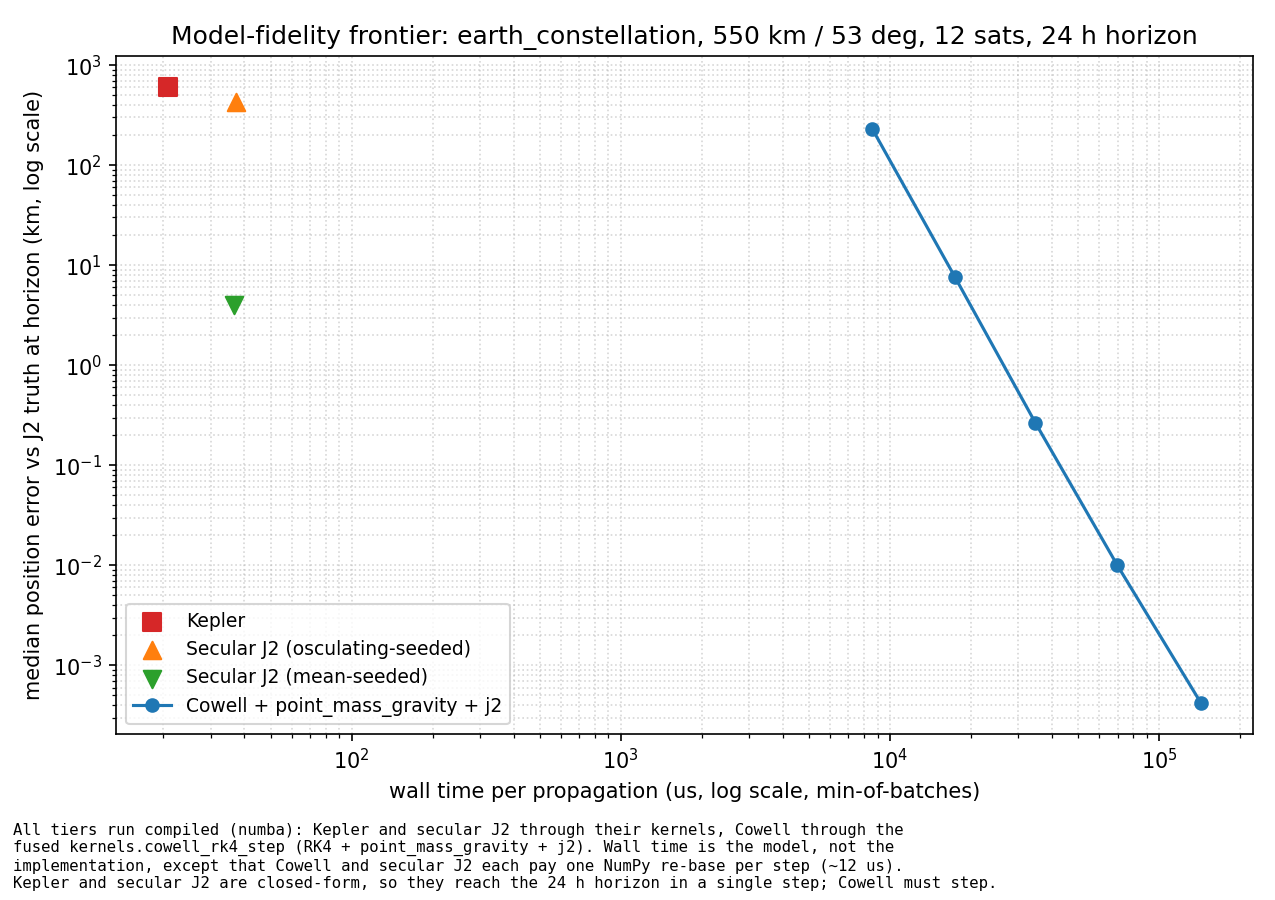
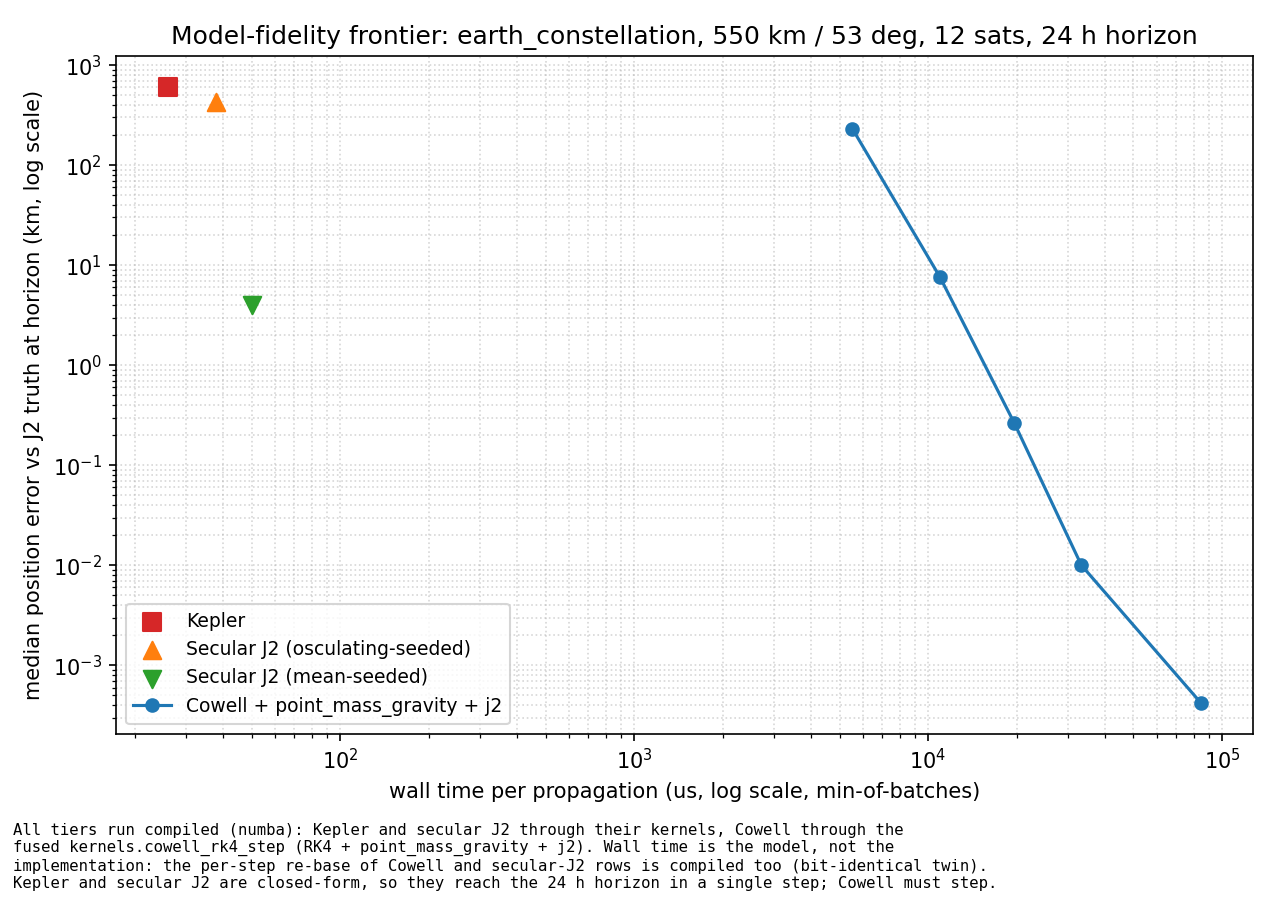
Compiled re-base: frontier plot, README numbers, twin table and notes
Regenerate docs/figures/frontier.png with the re-base compiled. Errors
unchanged; Cowell now 5.5 ms at a 160 s step and 85 ms at 10 s. Measured
per step on the 12-satellite scenario: Cowell 16.9 -> 5.8 us, secular J2
24.2 -> 6.9 us, against 5-6 us for Kepler. Doc edits limited to the
sentences that quoted the ~12 us re-base and the two-implementation table.

diff --git a/benchmarks/frontier_plot.py b/benchmarks/frontier_plot.py
@@ -32,9 +32,13 @@ through their kernels, Cowell through `kernels.cowell_rk4_step`, which fuses RK4
 NumPy `RK4Integrator` path, and `Simulation._cowell_fused_ok` says which applied). Without numba,
 Kepler and secular J2 run as interpreted Python and Cowell as vectorised NumPy, so the horizontal axis
 then measures implementation as much as model - printed here, on the figure itself and in
-`README.md`. What remains is `step()`'s Python-level bookkeeping: the Cowell and secular-J2 tiers each
-pay one NumPy re-base per step (eight small fancy-indexed operations), about 12 us, which the Keplerian
-tier does not.
+`README.md`. The re-base each Cowell and secular-J2 body needs after `calc_global()` also runs compiled
+(`kernels.rebase_relative_states`, bit-identical to the NumPy block in `Simulation._rebase`); before
+it did, that block cost 11 us per Cowell step and 17 us per secular-J2 step (12 satellites, measured
+with `benchmark.measure`) and dominated both tiers: a step now costs ~6 us against ~5-6 us for
+Kepler. What remains
+is the ordinary Python of `step()`, paid by every tier alike; `README.md` carries the measured
+per-tier timings.
 
 **The analytic tiers take one step to the horizon (`KEPLER_DT_S = HORIZON_S`).** Kepler and secular J2
 are closed-form in time, so their horizon error does not depend on step size: 60 s steps and a single
@@ -84,7 +88,7 @@ TIMING_WARMUP = 1
 CAVEAT_COMPILED = (
     "All tiers run compiled (numba): Kepler and secular J2 through their kernels, Cowell through the\n"
     "fused kernels.cowell_rk4_step (RK4 + point_mass_gravity + j2). Wall time is the model, not the\n"
-    "implementation, except that Cowell and secular J2 each pay one NumPy re-base per step (~12 us).\n"
+    "implementation: the per-step re-base of Cowell and secular-J2 rows is compiled too (bit-identical twin).\n"
     "Kepler and secular J2 are closed-form, so they reach the 24 h horizon in a single step; Cowell must step."
 )
 CAVEAT_INTERPRETED = (

diff --git a/README.md b/README.md
@@ -25,20 +25,21 @@ common DOP853 + J2 reference, computed once and reused. `benchmarks/frontier_plo
 
 Median position error after 24 hours, and the wall time to reach that state:
 
-- **Kepler: 608 km in 21 µs.** No J2 at all.
-- **Kepler + secular J2, seeded from osculating elements: 431 km in 37 µs.** The secular drift removes
+- **Kepler: 608 km in 26 µs.** No J2 at all.
+- **Kepler + secular J2, seeded from osculating elements: 431 km in about 40 µs.** The secular drift removes
   the cross-track error. The along-track error remains, because mean motion is taken from the
   *osculating* semi-major axis, whose short-period J2 term acts as a fixed rate bias.
-- **The same propagator seeded with a first-order *mean* semi-major axis: 4.0 km in 37 µs**
+- **The same propagator seeded with a first-order *mean* semi-major axis: 4.0 km in about 40 µs**
   (`propagators.mean_seeded_p`, after Kozai 1959 / Brouwer 1959). The remaining few km are the
   short-period oscillation an averaged theory cannot represent.
-- **Cowell + `point_mass_gravity` + `j2`: 231 km at a 160 s step (8.6 ms) down to 0.0004 km at 10 s
-  (143 ms).** Wall time rises 16× across that range, as fourth-order Runge-Kutta predicts: each halving
-  of the step doubles the cost and cuts the error about 16-fold.
+- **Cowell + `point_mass_gravity` + `j2`: 231 km at a 160 s step (5.5 ms) down to 0.0004 km at 10 s
+  (85 ms).** Wall time rises about 16× across that range, as fourth-order Runge-Kutta predicts: each
+  halving of the step doubles the cost and cuts the error about 16-fold.
 
 So the mean-seeded analytic tier sits on the frontier down to a few km. Doing better needs numerical
-integration, at roughly 1,000–4,000× the cost: 0.27 km for 35 ms, 0.0004 km for 143 ms. Timings vary
-by about 15% from run to run; errors do not.
+integration, at roughly 200–3,000× the cost: 0.27 km for 20 ms, 0.0004 km for 85 ms. Timings vary
+by about 20% from run to run (the two secular tiers do identical work and read 38 and 50 µs on the
+plotted run); errors do not.
 
 Two caveats:
 
@@ -51,7 +52,11 @@ Two caveats:
   latitude (see `docs/architecture.md`). That is why the sweep reports statistics over all bodies.
 
 Every tier runs compiled. Cowell uses `kernels.cowell_rk4_step`, a fused twin of RK4 +
-`point_mass_gravity` + `j2`, held to the NumPy path at 1e-12 relative.
+`point_mass_gravity` + `j2`, held to the NumPy path at 1e-12 relative. The re-base that places a
+Cowell or secular-J2 body on its parent's end-of-step position is compiled too
+(`kernels.rebase_relative_states`, bit-identical to the NumPy block). Measured on the 12-satellite
+scenario, one step costs about 6 µs for Cowell and 7 µs for secular J2 against 5 to 6 µs for Kepler;
+with the NumPy re-base those were 17 and 24 µs.
 
 ---
 

diff --git a/docs/architecture.md b/docs/architecture.md
@@ -316,7 +316,9 @@ candidates); if not, the whole Cowell set runs the NumPy path. The plan is rebui
 `_refresh_active_indices` and `resolve_force_models`, so it tracks `set_propagator` and
 `enable_force_model` without a per-step reduction over the mask. Both paths write the parent-relative
 result into `_cowell_rel` - the kernel by subtracting the parent from the row it has just rounded onto
-the absolute grid, the same arithmetic `step()` applies to the NumPy result - and share one re-base;
+the absolute grid, the same arithmetic `step()` applies to the NumPy result - and share one re-base
+(`Simulation._rebase`, whose own compiled twin `kernels.rebase_relative_states` is held bit-identical,
+like `calc_global_states`, since it is one addition and one subtraction per component);
 for a heliocentric Moon that rounding is an ulp of 1.5e8 km, 8e-14 of the lunar distance per step,
 close enough to the 1e-12 equivalence bound that returning the relative result directly would have
 been a mistake. `tests/validation/test_kernel_equivalence.py` holds the pair at 1e-12 relative on
@@ -494,7 +496,8 @@ Step 10 is the hook a future spawn/despawn path must call. After build, only `se
 Per `step()`: Cowell integrate (relative to each parent's start-of-step state) → secular-J2 advance
 (RAAN/argument of periapsis/mean anomaly, writing a parent-relative state to scratch) → Keplerian
 propagate → `calc_global` → re-base Cowell bodies onto their parents' end-of-step states → re-base
-secular-J2 bodies the same way → advance `t` → optionally record.
+secular-J2 bodies the same way (both through `_rebase`, compiled by default) → advance `t` →
+optionally record.
 
 ---
 

diff --git a/CLAUDE.md b/CLAUDE.md
@@ -201,6 +201,7 @@ Hot paths exist twice: a readable NumPy version and a compiled scalar version.
 | Secular-J2 propagation | `propagators.SecularJ2Propagator` | `kernels.secular_j2_propagate` |
 | Cowell step (RK4 + `point_mass_gravity` + `j2`) | `integrators.RK4Integrator` over `forces.compose_accelerations` | `kernels.cowell_rk4_step` (fused; other masks fall back to the reference) |
 | Global states | `Simulation.calc_global` (else branch) | `kernels.calc_global_states` |
+| Re-base of Cowell / secular-J2 rows after `calc_global` | `Simulation._rebase` (else branch) | `kernels.rebase_relative_states` (bit-identical; NumPy path if a body's parent is in its own re-base set) |
 
 `Simulation.use_compiled_kernel` selects between them; it defaults to `NUMBA_AVAILABLE`, because
 without numba the kernels run as *interpreted* Python and are slower than the NumPy path.
